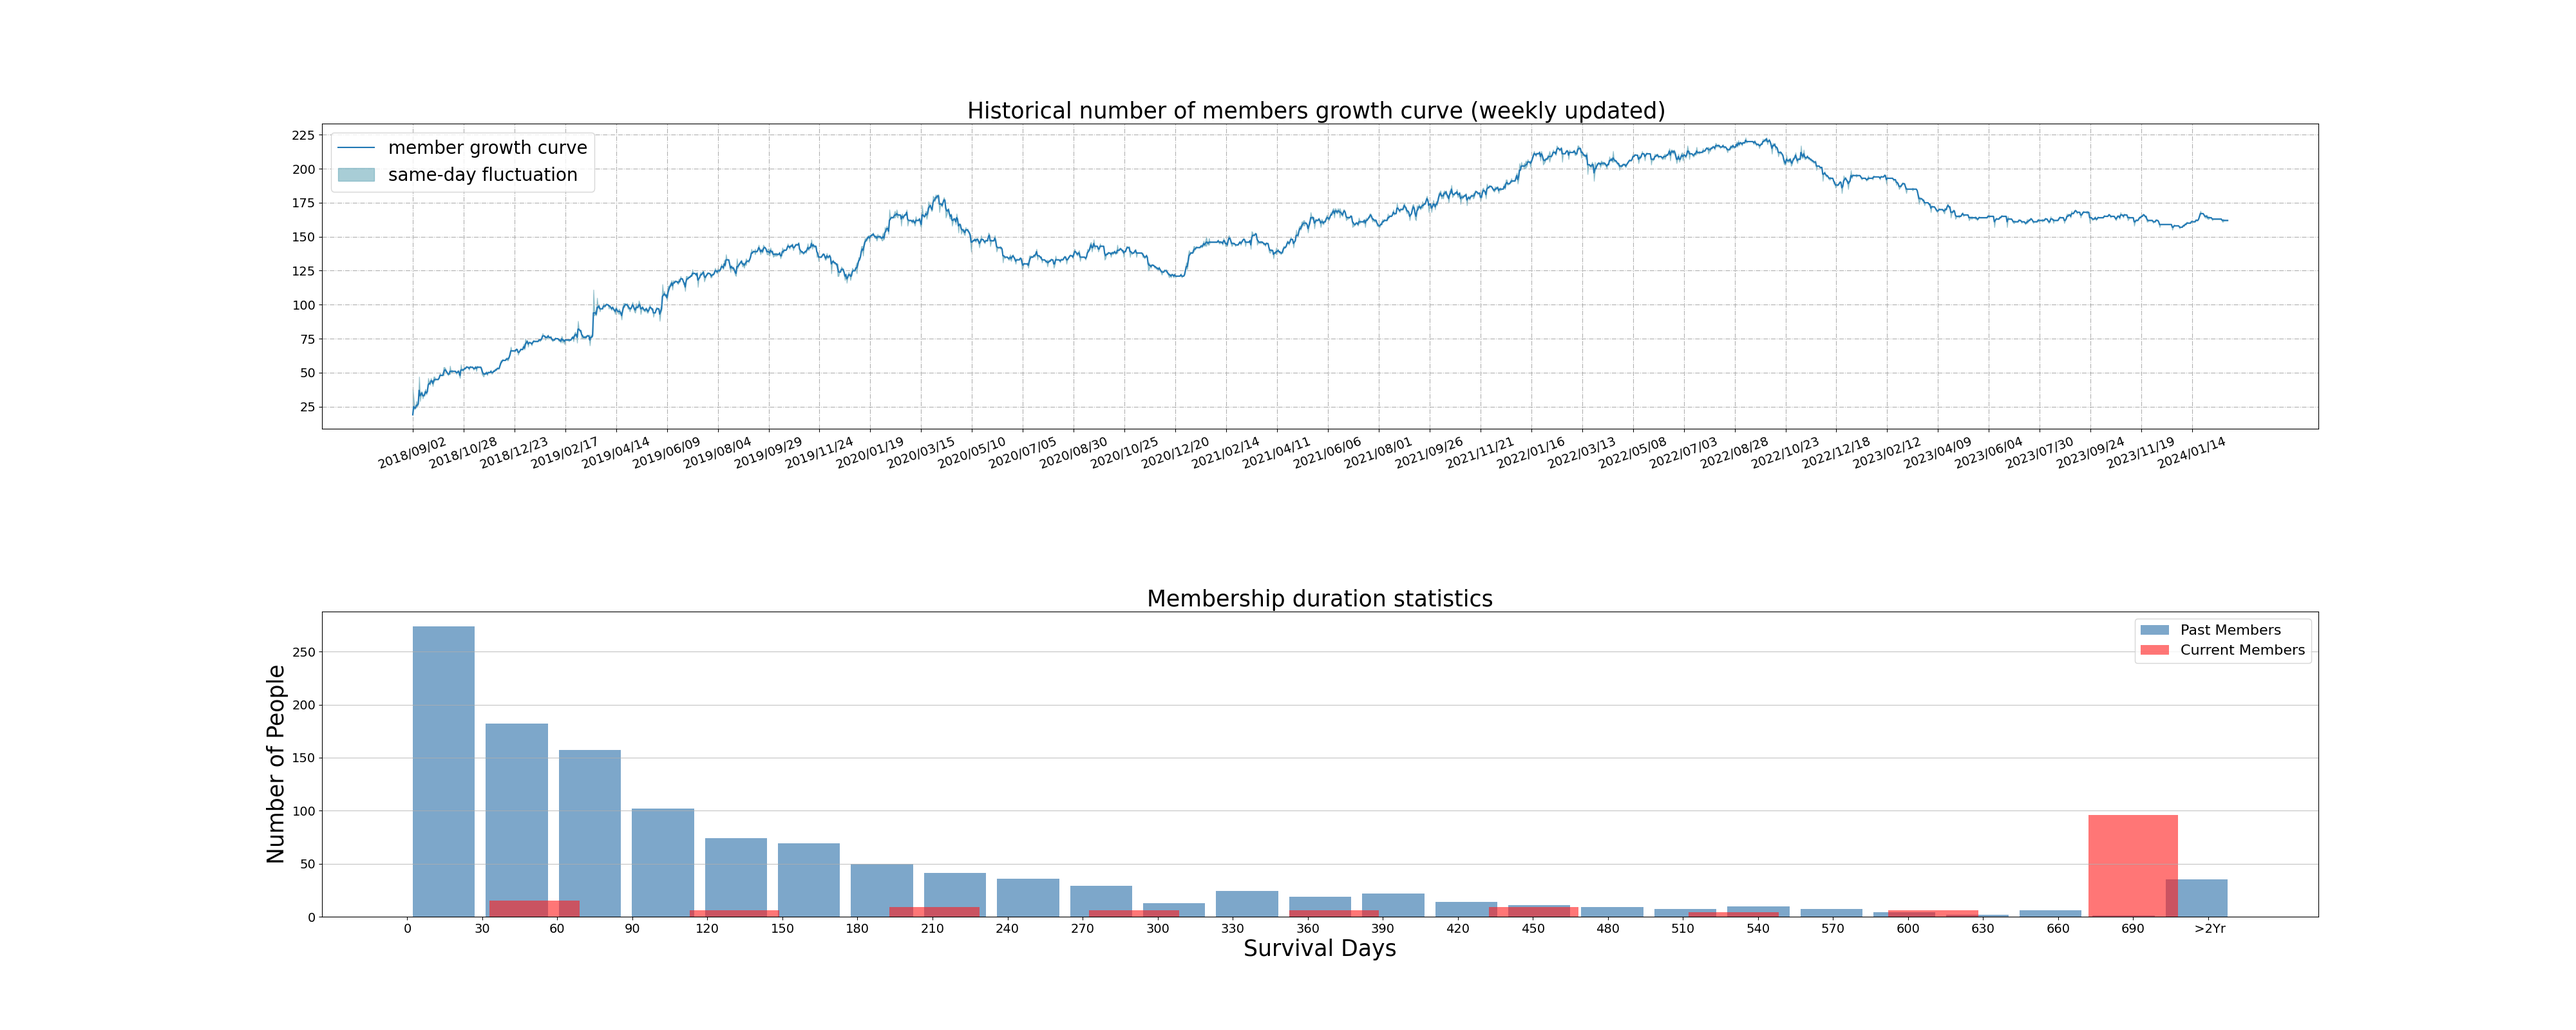
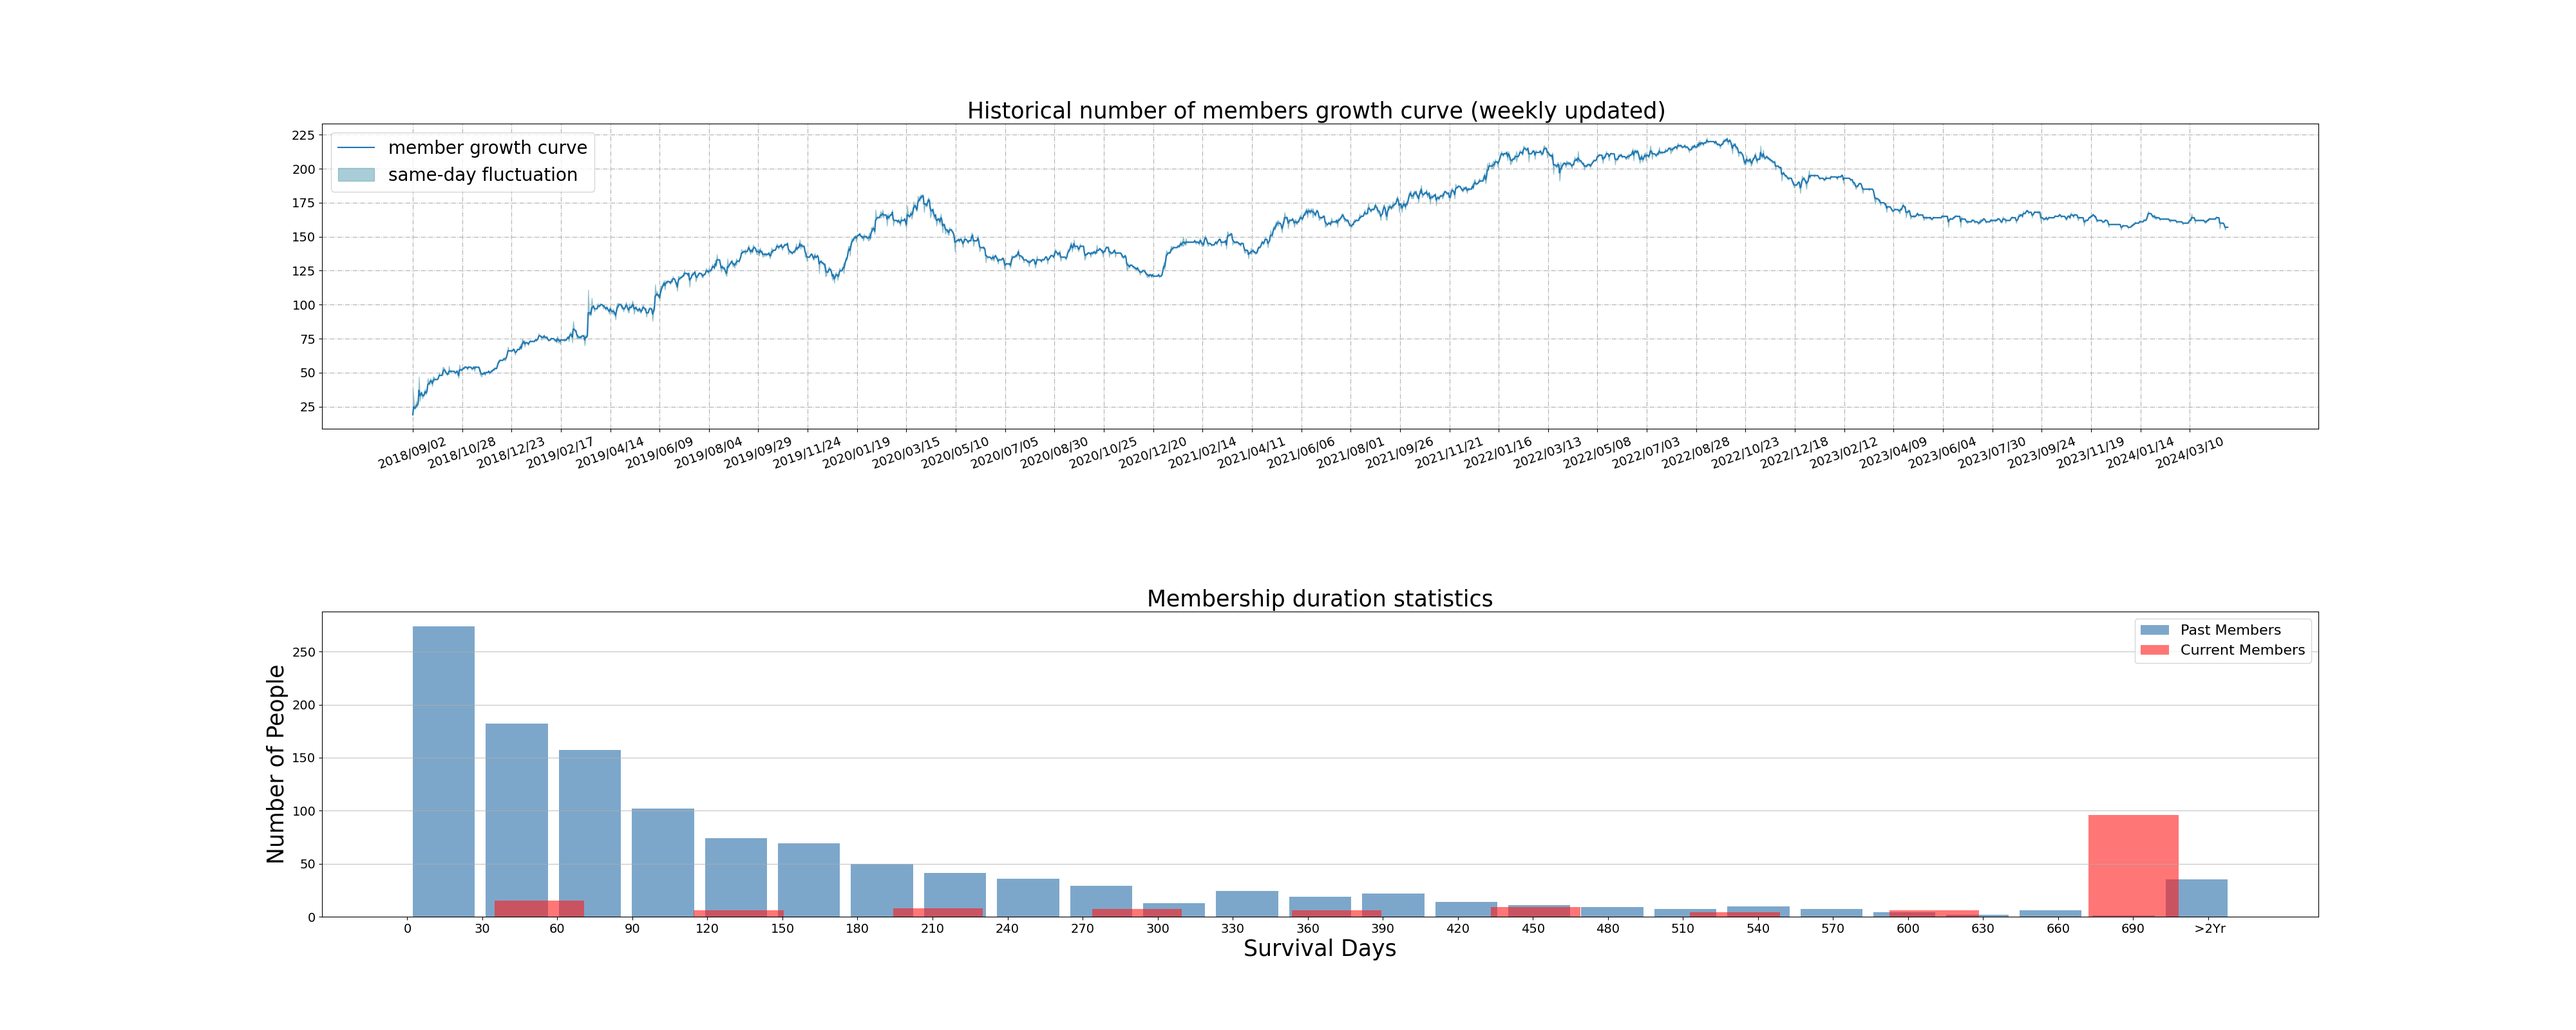
update curve

diff --git a/generateEXCEL/Data/PlotGroupCurve.py b/generateEXCEL/Data/PlotGroupCurve.py
@@ -56,7 +56,7 @@ Days = []
 Nums = []
 upper = []
 lower = []
-for i in range(2000):
+for i in range(2500):
   day = start + datetime.timedelta(days=i)
   if day>today: break
   
